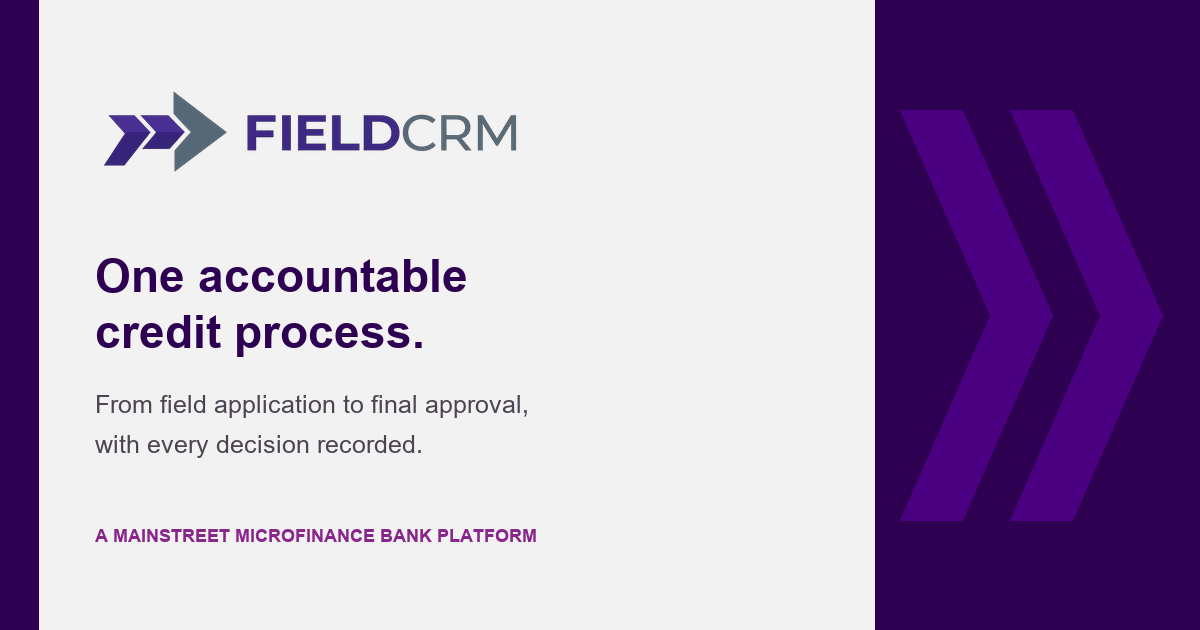
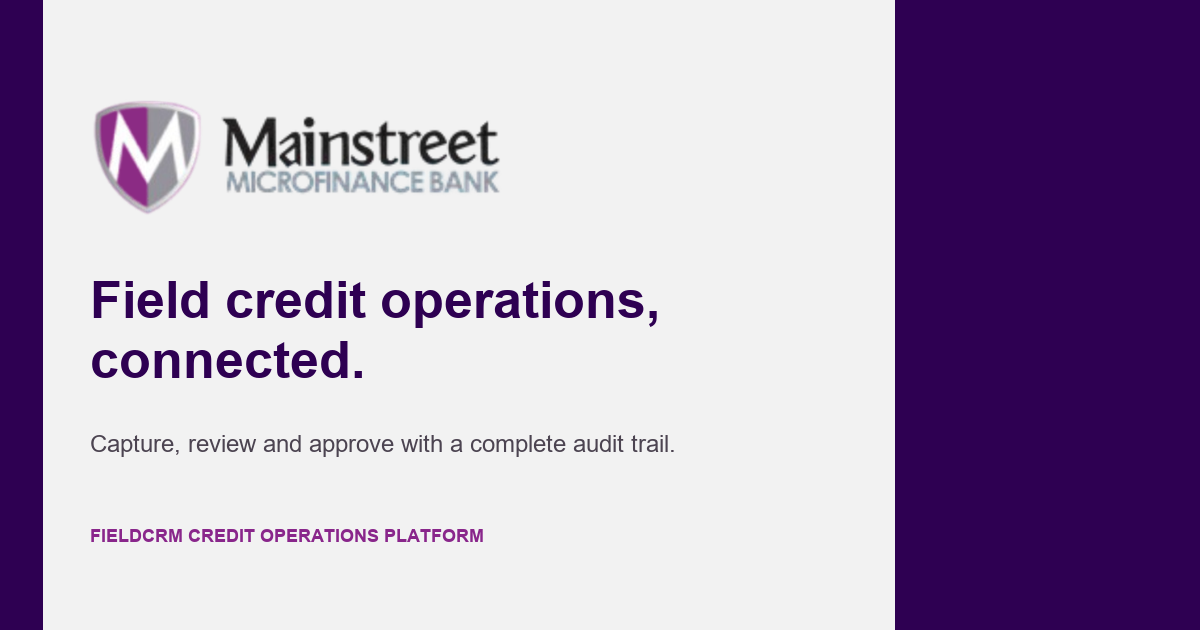
feat: use Mainstreet branding and cache public pages

Changed region(s): [[0.0308, 0.0, 0.555, 1.0], [0.7092, 0.0, 0.9867, 1.0], [0.0925, 0.6333, 0.4317, 0.6635]]

diff --git a/frontend/static/css/home.css b/frontend/static/css/home.css
@@ -1,4 +1,4 @@
-:root{--purple:#2e0052;--accent:#89268b;--canvas:#f2f2f2;--surface:#fff;--ink:#1e293b;--muted:#64748b;--line:#d8d4da;--success:#167047;--shadow:0 4px 20px rgba(75,0,130,.08)}
+:root{--purple:#2e0052;--accent:#89268b;--canvas:#f2f2f2;--surface:#fff;--ink:#1e293b;--muted:#64748b;--line:#d8d4da;--success:#167047;--shadow:0 4px 20px rgba(75,0,130,.08)}
 .privacy-header{grid-template-columns:1fr auto}.legal-page{max-width:880px;margin:auto;padding:80px 32px 96px}.legal-page h1{max-width:720px;margin:0;color:var(--purple);font-size:clamp(38px,5vw,58px);line-height:1.08}.legal-lead{margin:24px 0 52px;color:#4c4451;font-size:18px;line-height:1.75}.legal-page section{padding:28px 0;border-top:1px solid var(--line)}.legal-page section h2{margin:0 0 10px;color:var(--purple);font-size:21px}.legal-page section p{margin:0;color:var(--muted);font-size:14px;line-height:1.8}
 .preview-warning{max-width:560px;margin:0 0 18px;padding:12px;border-left:3px solid var(--accent);background:#f3eaf3;color:#4c4451;font-size:12px;line-height:1.55}
-*{box-sizing:border-box}html{scroll-behavior:smooth}body{margin:0;background:var(--canvas);color:var(--ink);font-family:Montserrat,Arial,sans-serif}.skip-link{position:fixed;z-index:20;top:8px;left:8px;padding:12px;background:#fff;color:var(--purple);transform:translateY(-150%)}.skip-link:focus{transform:none}.site-header{position:sticky;z-index:10;top:0;display:grid;grid-template-columns:minmax(220px,1fr) auto minmax(260px,1fr);align-items:center;gap:32px;min-height:80px;padding:12px max(32px,calc((100vw - 1280px)/2));border-bottom:1px solid var(--line);background:rgba(255,255,255,.96)}.product-brand{display:grid;width:max-content;color:var(--muted);font-size:10px;text-decoration:none}.product-brand img{width:180px;height:42px;object-fit:contain;object-position:left center}.site-header nav,.header-actions{display:flex;align-items:center;gap:24px}.site-header nav a,footer a{color:inherit;font-size:13px;font-weight:600;text-decoration:none}.header-actions{justify-content:flex-end;gap:12px}.button{display:inline-flex;min-height:48px;align-items:center;justify-content:center;padding:0 20px;border:1px solid var(--purple);border-radius:4px;font-size:14px;font-weight:700;text-decoration:none}.button-primary{background:var(--purple);color:#fff}.button-primary:hover{background:#4b0082}.button-ghost{background:#fff;color:var(--purple)}.button-disabled{border-color:var(--line);background:#e5e2e7;color:#6f6873}.hero{display:grid;grid-template-columns:1.02fr .98fr;gap:64px;align-items:center;max-width:1280px;margin:auto;padding:80px 32px 64px}.eyebrow{margin:0 0 12px;color:var(--accent);font-size:11px;font-weight:700;letter-spacing:.12em;text-transform:uppercase}.hero h1{max-width:700px;margin:0;color:var(--purple);font-size:clamp(40px,4.7vw,68px);line-height:1.05;letter-spacing:-.035em}.hero-intro{max-width:650px;margin:28px 0;color:#4c4451;font-size:18px;line-height:1.7}.hero-actions{display:flex;align-items:center;gap:28px}.text-link{color:var(--purple);font-weight:700;text-decoration:none}.release-note{margin:14px 0 0;color:var(--muted);font-size:12px}.product-preview{overflow:hidden;border:1px solid #cec3d3;border-radius:8px;background:#fff;box-shadow:var(--shadow)}.preview-bar{display:flex;align-items:center;gap:9px;min-height:56px;padding:0 20px;background:var(--purple);color:#fff}.preview-bar img{width:30px;height:30px;object-fit:contain}.preview-bar span{margin-left:auto;color:#e7c7ff;font-size:11px}.preview-greeting{padding:24px 24px 16px;background:#3a0961;color:#fff}.preview-greeting small{color:#e7c7ff;font-size:9px;letter-spacing:.12em}.preview-greeting h2{margin:6px 0 2px;font-size:25px}.preview-greeting p{margin:0;color:#ddd2e4;font-size:12px}.preview-metrics{display:grid;grid-template-columns:repeat(4,1fr);gap:8px;padding:16px;background:#f5f3f6}.preview-metrics article{padding:14px 10px;border:1px solid #e7e3e8;border-radius:4px;background:#fff}.preview-metrics strong,.preview-metrics span{display:block}.preview-metrics strong{color:var(--purple);font-size:24px}.preview-metrics span{margin-top:6px;color:var(--muted);font-size:9px}.preview-tasks{padding:4px 20px 18px}.preview-tasks>div,.preview-tasks article{display:flex;justify-content:space-between;padding:13px 4px;border-bottom:1px solid #e7e3e8;font-size:11px}.preview-tasks article span{color:var(--accent);font-weight:700}.capability-band{display:grid;grid-template-columns:repeat(4,1fr);max-width:1280px;margin:0 auto;padding:0 32px 64px}.capability-band div{display:flex;align-items:center;justify-content:center;gap:12px;min-height:72px;border-block:1px solid var(--line);color:var(--purple);font-weight:700}.capability-band div+div{border-left:1px solid var(--line)}.capability-band span{color:var(--ink);font-size:13px}.section{max-width:1280px;margin:auto;padding:72px 32px}.section h2{margin:0;color:var(--purple);font-size:32px;letter-spacing:-.02em}.workflow{border-top:1px solid var(--line)}.workflow ol{display:grid;grid-template-columns:repeat(6,1fr);margin:40px 0 0;padding:0;counter-reset:steps;list-style:none}.workflow li{position:relative;display:grid;gap:8px;padding:44px 20px 0 0;border-top:2px solid #cdbcd4}.workflow li:before{position:absolute;top:-16px;display:grid;width:32px;height:32px;place-items:center;border-radius:50%;background:var(--purple);color:#fff;content:counter(steps);counter-increment:steps;font-size:12px;font-weight:700}.workflow li span{color:var(--muted);font-size:12px;line-height:1.5}.field-grid{display:grid;grid-template-columns:.9fr 1.1fr;gap:24px}.field-grid>article{padding:36px;border:1px solid var(--line);border-radius:8px;background:#fff}.field-grid ul{display:grid;gap:14px;margin:28px 0 0;padding:0;list-style:none}.field-grid li:before{margin-right:10px;color:var(--accent);content:'✓';font-weight:700}.download-panel{display:grid!important;grid-template-columns:76px 1fr;gap:20px}.download-panel>img{padding:8px;background:#f0dbff;border-radius:8px}.download-panel dl{display:flex;gap:28px;margin:22px 0}.download-panel dl div{display:grid;gap:3px}.download-panel dt{color:var(--muted);font-size:10px;text-transform:uppercase}.download-panel dd{margin:0;font-size:13px;font-weight:700}.checksum{max-width:520px;color:var(--muted);font-size:10px;overflow-wrap:anywhere}.faq{border-top:1px solid var(--line)}.faq-grid{display:grid;grid-template-columns:repeat(2,1fr);gap:12px;margin-top:32px}.faq details{padding:18px 20px;border:1px solid var(--line);border-radius:4px;background:#fff}.faq summary{color:var(--purple);cursor:pointer;font-size:14px;font-weight:700}.faq details p{margin:14px 0 0;color:var(--muted);font-size:13px;line-height:1.6}footer{display:flex;align-items:center;justify-content:space-between;gap:32px;min-height:160px;padding:36px max(32px,calc((100vw - 1216px)/2));background:var(--purple);color:#fff}footer>div{display:grid;gap:12px;color:#d9cbe0;font-size:11px}footer img{width:230px;height:64px;object-fit:contain;object-position:left center}footer nav{display:flex;gap:28px}@media(max-width:960px){.site-header{grid-template-columns:1fr auto}.site-header>nav{display:none}.hero{grid-template-columns:1fr}.product-preview{max-width:700px}.workflow ol{grid-template-columns:repeat(3,1fr);row-gap:44px}.field-grid{grid-template-columns:1fr}}@media(max-width:640px){.site-header{padding:10px 16px}.product-brand img{width:140px}.product-brand span,.header-actions .button-primary{display:none}.button{min-height:44px;padding:0 14px}.hero{gap:40px;padding:48px 16px}.hero h1{font-size:40px}.hero-intro{font-size:16px}.preview-metrics{grid-template-columns:repeat(2,1fr)}.capability-band{grid-template-columns:repeat(2,1fr);padding:0 16px 40px}.capability-band div:nth-child(3){border-left:0}.section{padding:52px 16px}.workflow ol{grid-template-columns:repeat(2,1fr)}.field-grid>article{padding:24px}.download-panel{grid-template-columns:1fr!important}.faq-grid{grid-template-columns:1fr}footer{align-items:flex-start;flex-direction:column;padding:36px 16px}}
+*{box-sizing:border-box}html{scroll-behavior:smooth}body{margin:0;background:var(--canvas);color:var(--ink);font-family:Montserrat,"Segoe UI",Arial,sans-serif}.skip-link{position:fixed;z-index:20;top:8px;left:8px;padding:12px;background:#fff;color:var(--purple);transform:translateY(-150%)}.skip-link:focus{transform:none}.site-header{position:sticky;z-index:10;top:0;display:grid;grid-template-columns:minmax(220px,1fr) auto minmax(260px,1fr);align-items:center;gap:32px;min-height:80px;padding:12px max(32px,calc((100vw - 1280px)/2));border-bottom:1px solid var(--line);background:rgba(255,255,255,.96)}.product-brand{display:grid;width:max-content;color:var(--muted);font-size:10px;text-decoration:none}.product-brand img{width:180px;height:42px;object-fit:contain;object-position:left center}.site-header nav,.header-actions{display:flex;align-items:center;gap:24px}.site-header nav a,footer a{color:inherit;font-size:13px;font-weight:600;text-decoration:none}.header-actions{justify-content:flex-end;gap:12px}.button{display:inline-flex;min-height:48px;align-items:center;justify-content:center;padding:0 20px;border:1px solid var(--purple);border-radius:4px;font-size:14px;font-weight:700;text-decoration:none}.button-primary{background:var(--purple);color:#fff}.button-primary:hover{background:#4b0082}.button-ghost{background:#fff;color:var(--purple)}.button-disabled{border-color:var(--line);background:#e5e2e7;color:#6f6873}.hero{display:grid;grid-template-columns:1.02fr .98fr;gap:64px;align-items:center;max-width:1280px;margin:auto;padding:80px 32px 64px}.eyebrow{margin:0 0 12px;color:var(--accent);font-size:11px;font-weight:700;letter-spacing:.12em;text-transform:uppercase}.hero h1{max-width:700px;margin:0;color:var(--purple);font-size:clamp(40px,4.7vw,68px);line-height:1.05;letter-spacing:-.035em}.hero-intro{max-width:650px;margin:28px 0;color:#4c4451;font-size:18px;line-height:1.7}.hero-actions{display:flex;align-items:center;gap:28px}.text-link{color:var(--purple);font-weight:700;text-decoration:none}.release-note{margin:14px 0 0;color:var(--muted);font-size:12px}.product-preview{overflow:hidden;border:1px solid #cec3d3;border-radius:8px;background:#fff;box-shadow:var(--shadow)}.preview-bar{display:flex;align-items:center;gap:9px;min-height:56px;padding:0 20px;background:var(--purple);color:#fff}.preview-bar img{width:112px;height:34px;object-fit:contain;object-position:left center}.preview-bar span{margin-left:auto;color:#e7c7ff;font-size:11px}.preview-greeting{padding:24px 24px 16px;background:#3a0961;color:#fff}.preview-greeting small{color:#e7c7ff;font-size:9px;letter-spacing:.12em}.preview-greeting h2{margin:6px 0 2px;font-size:25px}.preview-greeting p{margin:0;color:#ddd2e4;font-size:12px}.preview-metrics{display:grid;grid-template-columns:repeat(4,1fr);gap:8px;padding:16px;background:#f5f3f6}.preview-metrics article{padding:14px 10px;border:1px solid #e7e3e8;border-radius:4px;background:#fff}.preview-metrics strong,.preview-metrics span{display:block}.preview-metrics strong{color:var(--purple);font-size:24px}.preview-metrics span{margin-top:6px;color:var(--muted);font-size:9px}.preview-tasks{padding:4px 20px 18px}.preview-tasks>div,.preview-tasks article{display:flex;justify-content:space-between;padding:13px 4px;border-bottom:1px solid #e7e3e8;font-size:11px}.preview-tasks article span{color:var(--accent);font-weight:700}.capability-band{display:grid;grid-template-columns:repeat(4,1fr);max-width:1280px;margin:0 auto;padding:0 32px 64px}.capability-band div{display:flex;align-items:center;justify-content:center;gap:12px;min-height:72px;border-block:1px solid var(--line);color:var(--purple);font-weight:700}.capability-band div+div{border-left:1px solid var(--line)}.capability-band span{color:var(--ink);font-size:13px}.section{max-width:1280px;margin:auto;padding:72px 32px}.section h2{margin:0;color:var(--purple);font-size:32px;letter-spacing:-.02em}.workflow{border-top:1px solid var(--line)}.workflow ol{display:grid;grid-template-columns:repeat(6,1fr);margin:40px 0 0;padding:0;counter-reset:steps;list-style:none}.workflow li{position:relative;display:grid;gap:8px;padding:44px 20px 0 0;border-top:2px solid #cdbcd4}.workflow li:before{position:absolute;top:-16px;display:grid;width:32px;height:32px;place-items:center;border-radius:50%;background:var(--purple);color:#fff;content:counter(steps);counter-increment:steps;font-size:12px;font-weight:700}.workflow li span{color:var(--muted);font-size:12px;line-height:1.5}.field-grid{display:grid;grid-template-columns:.9fr 1.1fr;gap:24px}.field-grid>article{padding:36px;border:1px solid var(--line);border-radius:8px;background:#fff}.field-grid ul{display:grid;gap:14px;margin:28px 0 0;padding:0;list-style:none}.field-grid li:before{margin-right:10px;color:var(--accent);content:'âœ“';font-weight:700}.download-panel{display:grid!important;grid-template-columns:76px 1fr;gap:20px}.download-panel>img{padding:8px;background:#f0dbff;border-radius:8px}.download-panel dl{display:flex;gap:28px;margin:22px 0}.download-panel dl div{display:grid;gap:3px}.download-panel dt{color:var(--muted);font-size:10px;text-transform:uppercase}.download-panel dd{margin:0;font-size:13px;font-weight:700}.checksum{max-width:520px;color:var(--muted);font-size:10px;overflow-wrap:anywhere}.faq{border-top:1px solid var(--line)}.faq-grid{display:grid;grid-template-columns:repeat(2,1fr);gap:12px;margin-top:32px}.faq details{padding:18px 20px;border:1px solid var(--line);border-radius:4px;background:#fff}.faq summary{color:var(--purple);cursor:pointer;font-size:14px;font-weight:700}.faq details p{margin:14px 0 0;color:var(--muted);font-size:13px;line-height:1.6}footer{display:flex;align-items:center;justify-content:space-between;gap:32px;min-height:160px;padding:36px max(32px,calc((100vw - 1216px)/2));background:var(--purple);color:#fff}footer>div{display:grid;gap:12px;color:#d9cbe0;font-size:11px}footer img{width:230px;height:64px;object-fit:contain;object-position:left center}footer nav{display:flex;gap:28px}@media(max-width:960px){.site-header{grid-template-columns:1fr auto}.site-header>nav{display:none}.hero{grid-template-columns:1fr}.product-preview{max-width:700px}.workflow ol{grid-template-columns:repeat(3,1fr);row-gap:44px}.field-grid{grid-template-columns:1fr}}@media(max-width:640px){.site-header{padding:10px 16px}.product-brand img{width:140px}.product-brand span,.header-actions .button-primary{display:none}.button{min-height:44px;padding:0 14px}.hero{gap:40px;padding:48px 16px}.hero h1{font-size:40px}.hero-intro{font-size:16px}.preview-metrics{grid-template-columns:repeat(2,1fr)}.capability-band{grid-template-columns:repeat(2,1fr);padding:0 16px 40px}.capability-band div:nth-child(3){border-left:0}.section{padding:52px 16px}.workflow ol{grid-template-columns:repeat(2,1fr)}.field-grid>article{padding:24px}.download-panel{grid-template-columns:1fr!important}.faq-grid{grid-template-columns:1fr}footer{align-items:flex-start;flex-direction:column;padding:36px 16px}}

diff --git a/frontend/templates/shared/public_home.html b/frontend/templates/shared/public_home.html
@@ -1,4 +1,4 @@
-<!DOCTYPE html>
+<!DOCTYPE html>
 <html lang="en">
 <head>
     <meta charset="UTF-8">
@@ -27,20 +27,17 @@
     <meta name="twitter:title" content="FieldCRM | One accountable credit process">
     <meta name="twitter:description" content="Field credit operations from application to disbursement.">
     <meta name="twitter:image" content="{{ request.url_for('static', path='img/fieldcrm-social-preview.png') }}">
-    <link rel="preconnect" href="https://fonts.googleapis.com">
-    <link rel="preconnect" href="https://fonts.gstatic.com" crossorigin>
-    <link href="https://fonts.googleapis.com/css2?family=Montserrat:wght@400;500;600;700&display=swap" rel="stylesheet">
     <link rel="stylesheet" href="/static/css/home.css?v=20260812">
 </head>
 <body>
     <a class="skip-link" href="#main-content">Skip to content</a>
     <header class="site-header">
-        <a class="product-brand" href="/" aria-label="FieldCRM home">
-            <img src="/static/img/fieldcrm-logo.png" alt="FieldCRM">
-            <span>A Mainstreet Microfinance Bank platform</span>
+        <a class="product-brand" href="/" aria-label="Mainstreet Microfinance Bank home">
+            <img src="/static/img/MMFB Logo Black.png" alt="Mainstreet Microfinance Bank">
+            <span>FieldCRM credit operations platform</span>
         </a>
         <nav aria-label="Public navigation">
-            <a href="#platform">Platform</a><a href="#workflow">Workflow</a><a href="#mobile-app">Mobile app</a><a href="#security">Security</a><a href="#help">Help</a>
+            <a href="/">Home</a><a href="#platform">Platform</a><a href="#workflow">Workflow</a><a href="#mobile-app">Mobile app</a><a href="#security">Security</a><a href="#help">Help</a>
         </nav>
         <div class="header-actions"><a class="button button-ghost" href="/login">Staff login</a><a class="button button-primary" href="#mobile-app">Download Android</a></div>
     </header>
@@ -51,18 +48,18 @@
                 <p class="eyebrow">Field credit operations</p>
                 <h1>One accountable process, from application to disbursement.</h1>
                 <p class="hero-intro">FieldCRM helps Mainstreet teams capture loan applications, verify documents, coordinate role-based reviews, and keep a complete audit trail.</p>
-                <div class="hero-actions"><a class="button button-primary" href="#mobile-app">Download Android</a><a class="text-link" href="/login">Staff login <span aria-hidden="true">→</span></a></div>
-                <p class="release-note">Version {{ release.version }} · Android 8.0 and later{% if release.channel == 'preview' %} · Testing build{% endif %}</p>
+                <div class="hero-actions"><a class="button button-primary" href="#mobile-app">Download Android</a><a class="text-link" href="/login">Staff login <span aria-hidden="true">â†’</span></a></div>
+                <p class="release-note">Version {{ release.version }} &middot; Android 8.0 and later{% if release.channel == 'preview' %} &middot; Testing build{% endif %}</p>
             </div>
             <div class="product-preview" aria-label="Example Relationship Officer dashboard">
-                <div class="preview-bar"><img src="/static/img/fieldcrm-mark.png" alt=""><strong>FIELDCRM</strong><span>Relationship Officer</span></div>
+                <div class="preview-bar"><img src="/static/img/MMFB logo White.png" alt="Mainstreet Microfinance Bank"><strong>FIELDCRM</strong><span>Relationship Officer</span></div>
                 <div class="preview-greeting"><small>RELATIONSHIP OFFICER WORKSPACE</small><h2>Good morning.</h2><p>Your field activity at a glance</p></div>
                 <div class="preview-metrics"><article><strong>12</strong><span>Applications Today</span></article><article><strong>5</strong><span>Pending Sync</span></article><article><strong>8</strong><span>Visits Due</span></article><article><strong>3</strong><span>Missing Docs</span></article></div>
-                <div class="preview-tasks"><div><strong>Today’s Tasks</strong><span>View all</span></div><article><b>Application intake</b><span>Capture</span></article><article><b>Document review</b><span>Verify</span></article><article><b>Approval follow-up</b><span>Review</span></article></div>
+                <div class="preview-tasks"><div><strong>Today's Tasks</strong><span>View all</span></div><article><b>Application intake</b><span>Capture</span></article><article><b>Document review</b><span>Verify</span></article><article><b>Approval follow-up</b><span>Review</span></article></div>
             </div>
         </section>
 
-        <section class="capability-band" aria-label="Core capabilities"><div>▣ <span>Offline field capture</span></div><div>▤ <span>Document scan &amp; OCR</span></div><div>◆ <span>Role-based approvals</span></div><div>◈ <span>Audit history</span></div></section>
+        <section class="capability-band" aria-label="Core capabilities"><div>â–£ <span>Offline field capture</span></div><div>â–¤ <span>Document scan &amp; OCR</span></div><div>â—† <span>Role-based approvals</span></div><div>â—ˆ <span>Audit history</span></div></section>
 
         <section class="section workflow" id="workflow">
             <p class="eyebrow">A controlled path</p><h2>Built around the credit workflow</h2>
@@ -71,12 +68,12 @@
 
         <section class="section field-grid" id="security">
             <article><p class="eyebrow">Field operations</p><h2>Work securely in the field</h2><ul><li>Encrypted session and document storage</li><li>Background synchronization</li><li>Camera document capture and OCR review</li><li>Role-aware work queues and approvals</li></ul></article>
-            <article class="download-panel" id="mobile-app"><img src="/static/img/fieldcrm-mark.png" alt="" width="64" height="64"><div><p class="eyebrow">Android application{% if release.channel == 'preview' %} · Preview{% endif %}</p><h2>Get FieldCRM for Android</h2><dl><div><dt>Version</dt><dd>{{ release.version }}</dd></div><div><dt>Requires</dt><dd>Android 8.0+</dd></div>{% if release.released_at %}<div><dt>Released</dt><dd>{{ release.released_at }}</dd></div>{% endif %}</dl>{% if release.channel == 'preview' %}<p class="preview-warning">Testing build: signed with the Android debug certificate. Do not use as a production release.</p>{% endif %}{% if release.available %}<a class="button button-primary" href="/download/android">Download {% if release.channel == 'preview' %}Preview {% endif %}APK</a>{% else %}<span class="button button-disabled" aria-disabled="true">Android release coming soon</span>{% endif %}{% if release.sha256 %}<p class="checksum">SHA-256: <code>{{ release.sha256 }}</code></p>{% endif %}</div></article>
+            <article class="download-panel" id="mobile-app"><img src="/static/img/mainstreet-mark.png" alt="Mainstreet Microfinance Bank" width="64" height="64"><div><p class="eyebrow">Android application{% if release.channel == 'preview' %} &middot; Preview{% endif %}</p><h2>Get FieldCRM for Android</h2><dl><div><dt>Version</dt><dd>{{ release.version }}</dd></div><div><dt>Requires</dt><dd>Android 8.0+</dd></div>{% if release.released_at %}<div><dt>Released</dt><dd>{{ release.released_at }}</dd></div>{% endif %}</dl>{% if release.channel == 'preview' %}<p class="preview-warning">Testing build: signed with the Android debug certificate. Do not use as a production release.</p>{% endif %}{% if release.available %}<a class="button button-primary" href="/download/android">Download {% if release.channel == 'preview' %}Preview {% endif %}APK</a>{% else %}<span class="button button-disabled" aria-disabled="true">Android release coming soon</span>{% endif %}{% if release.sha256 %}<p class="checksum">SHA-256: <code>{{ release.sha256 }}</code></p>{% endif %}</div></article>
         </section>
 
         <section class="section faq" id="help"><p class="eyebrow">Help</p><h2>Frequently asked questions</h2><div class="faq-grid"><details><summary>Who can use FieldCRM?</summary><p>Authorized Mainstreet staff receive role-based access for field capture, review, approval, administration, and audit work.</p></details><details><summary>Can I work offline?</summary><p>The Android app can retain supported field data locally and synchronize it when connectivity returns. Server confirmation remains authoritative.</p></details><details><summary>How do I install the APK?</summary><p>Download the signed APK on an Android 8.0+ device, approve installation from this source when prompted, and open FieldCRM.</p></details><details><summary>Where can I get support?</summary><p>Contact your Mainstreet system administrator or internal technology support team.</p></details></div></section>
     </main>
 
-    <footer><div><img src="/static/img/MMFB logo White.png" alt="Mainstreet Microfinance Bank"><span>FieldCRM supports Mainstreet’s field credit operations.</span></div><nav aria-label="Footer navigation"><a href="/privacy">Privacy</a><a href="#security">Security</a><a href="#help">Support</a><a href="/login">Staff login</a></nav></footer>
+    <footer><div><img src="/static/img/MMFB logo White.png" alt="Mainstreet Microfinance Bank"><span>FieldCRM supports Mainstreet's field credit operations.</span></div><nav aria-label="Footer navigation"><a href="/terms">Terms &amp; Conditions</a><a href="#security">Security</a><a href="#help">Support</a><a href="/login">Staff login</a></nav></footer>
 </body>
 </html>

diff --git a/frontend/templates/shared/public_terms.html b/frontend/templates/shared/public_terms.html
@@ -1,0 +1,32 @@
+<!DOCTYPE html>
+<html lang="en">
+<head>
+    <meta charset="UTF-8">
+    <meta name="viewport" content="width=device-width, initial-scale=1.0">
+    <meta name="robots" content="index,follow">
+    <meta name="theme-color" content="#2E0052">
+    <title>Terms &amp; Conditions | FieldCRM</title>
+    <meta name="description" content="Terms and conditions for authorized use of the Mainstreet FieldCRM credit operations platform.">
+    <link rel="icon" href="/static/icons/favicon.svg" type="image/svg+xml">
+    <link rel="stylesheet" href="/static/css/home.css?v=20260812">
+</head>
+<body>
+    <header class="site-header">
+        <a class="product-brand" href="/" aria-label="Mainstreet Microfinance Bank home"><img src="/static/img/MMFB Logo Black.png" alt="Mainstreet Microfinance Bank"><span>FieldCRM credit operations platform</span></a>
+        <nav aria-label="Public navigation"><a href="/">Home</a><a href="/#platform">Platform</a><a href="/#workflow">Workflow</a><a href="/#mobile-app">Mobile app</a><a href="/#security">Security</a><a href="/#help">Help</a></nav>
+        <div class="header-actions"><a class="button button-ghost" href="/login">Staff login</a><a class="button button-primary" href="/#mobile-app">Download Android</a></div>
+    </header>
+    <main class="legal-page">
+        <p class="eyebrow">Terms &amp; Conditions</p>
+        <h1>Terms for using FieldCRM</h1>
+        <p class="legal-lead">FieldCRM is an internal credit-operations platform provided for authorized Mainstreet Microfinance Bank personnel. By accessing it, you agree to use it only for approved business activities and in accordance with Mainstreet policies.</p>
+        <section><h2>Authorized access</h2><p>Access is limited to approved users. You must use your assigned account, protect authentication credentials, complete required device security checks, and immediately report suspected unauthorized access.</p></section>
+        <section><h2>Acceptable use</h2><p>You may use FieldCRM only to perform assigned credit intake, verification, review, approval, administration, monitoring, and audit duties. You must not bypass role permissions, alter records without authority, introduce harmful software, or use platform information for personal purposes.</p></section>
+        <section><h2>Information and decisions</h2><p>Users must enter accurate information, verify supporting evidence, and follow approved credit policies. FieldCRM supports workflows and record keeping; it does not replace professional judgment, required approvals, or applicable legal and regulatory obligations.</p></section>
+        <section><h2>Confidentiality and records</h2><p>Customer, guarantor, staff, document, and transaction information is confidential. It must not be copied, disclosed, downloaded, or retained outside approved Mainstreet systems except where expressly authorized. Relevant actions may be logged and reviewed.</p></section>
+        <section><h2>Availability and changes</h2><p>Mainstreet may maintain, update, suspend, or restrict the platform where reasonably required for security, operations, compliance, or service continuity. Features and these terms may be updated through approved organizational processes.</p></section>
+        <section><h2>Support and enforcement</h2><p>Report technical issues through the official Mainstreet support channel. Misuse may result in access suspension, internal disciplinary action, or other action permitted by policy and law.</p></section>
+    </main>
+    <footer><div><img src="/static/img/MMFB logo White.png" alt="Mainstreet Microfinance Bank"><span>FieldCRM supports Mainstreet's field credit operations.</span></div><nav aria-label="Footer navigation"><a href="/">Home</a><a href="/login">Staff login</a></nav></footer>
+</body>
+</html>

diff --git a/android/src/main/java/com/fieldcrm/android/ui/components/FieldComponents.kt b/android/src/main/java/com/fieldcrm/android/ui/components/FieldComponents.kt
@@ -57,9 +57,9 @@ import java.util.Locale
 // ==========================================
 
 @Composable
-fun FieldBrandMark(modifier: Modifier = Modifier, contentDescription: String? = "FieldCRM") {
+fun FieldBrandMark(modifier: Modifier = Modifier, contentDescription: String? = "Mainstreet Microfinance Bank") {
     Image(
-        painter = painterResource(R.drawable.fieldcrm_mark),
+        painter = painterResource(R.drawable.mainstreet_mark),
         contentDescription = contentDescription,
         modifier = modifier,
         contentScale = ContentScale.Fit,

diff --git a/backend/app/main.py b/backend/app/main.py
@@ -166,7 +166,10 @@ class ProtectedStaticFiles(StaticFiles):
         normalized = path.replace("\\", "/").lstrip("/")
         if normalized == "uploads" or normalized.startswith("uploads/"):
             raise StarletteHTTPException(status_code=404)
-        return await super().get_response(path, scope)
+        response = await super().get_response(path, scope)
+        if response.status_code == 200:
+            response.headers["Cache-Control"] = "public, max-age=86400, stale-while-revalidate=604800"
+        return response
 
 
 app.mount("/static", ProtectedStaticFiles(directory=static_dir), name="static")
@@ -546,7 +549,9 @@ async def root_view(request: Request):
         "sha256": settings.ANDROID_APK_SHA256,
         "channel": settings.ANDROID_APK_CHANNEL,
     }
-    return templates.TemplateResponse(request, "shared/public_home.html", {"release": release})
+    response = templates.TemplateResponse(request, "shared/public_home.html", {"release": release})
+    response.headers["Cache-Control"] = "public, max-age=300, s-maxage=3600, stale-while-revalidate=86400"
+    return response
 
 
 @app.get("/download/android")
@@ -560,9 +565,11 @@ async def download_android():
     )
 
 
-@app.get("/privacy")
-async def privacy_view(request: Request):
-    return templates.TemplateResponse(request, "shared/public_privacy.html", {})
+@app.get("/terms")
+async def terms_view(request: Request):
+    response = templates.TemplateResponse(request, "shared/public_terms.html", {})
+    response.headers["Cache-Control"] = "public, max-age=3600, s-maxage=86400, stale-while-revalidate=604800"
+    return response
 
 
 @app.get("/robots.txt", response_class=PlainTextResponse)
@@ -578,7 +585,7 @@ async def sitemap_xml(request: Request):
         '<?xml version="1.0" encoding="UTF-8"?>'
         '<urlset xmlns="http://www.sitemaps.org/schemas/sitemap/0.9">'
         f'<url><loc>{origin}/</loc></url>'
-        f'<url><loc>{origin}/privacy</loc></url>'
+        f'<url><loc>{origin}/terms</loc></url>'
         '</urlset>'
     )
     return Response(content=body, media_type="application/xml")

diff --git a/backend/tests/test_public_home.py b/backend/tests/test_public_home.py
@@ -67,9 +67,17 @@ async def test_robots_and_sitemap_reference_public_origin():
     assert "https://fieldcrm.example/" in sitemap.body.decode()
 
 
-async def test_privacy_page_is_reachable():
-    response = await main.privacy_view(make_request("/privacy"))
+async def test_terms_page_is_reachable_and_uses_home_header():
+    response = await main.terms_view(make_request("/terms"))
     body = await response_body(response)
     assert response.status_code == 200
-    assert "FieldCRM privacy information" in body
+    assert "Terms for using FieldCRM" in body
     assert "Mainstreet Microfinance Bank" in body
+    assert 'href="/">Home</a>' in body
+    assert response.headers["cache-control"].startswith("public")
+
+
+async def test_home_is_edge_cacheable(monkeypatch):
+    monkeypatch.setattr(main.settings, "ANDROID_APK_CHANNEL", "preview")
+    response = await main.root_view(make_request())
+    assert "s-maxage=3600" in response.headers["cache-control"]

diff --git a/backend/tests/test_vercel_bundle.py b/backend/tests/test_vercel_bundle.py
@@ -10,3 +10,4 @@ def test_vercel_function_bundles_jinja_templates_and_static_assets():
     assert "frontend/templates/**" in includes
     assert "frontend/static/**" in includes
     assert (root / "frontend/templates/shared/public_home.html").is_file()
+    assert (root / "frontend/templates/shared/public_terms.html").is_file()
